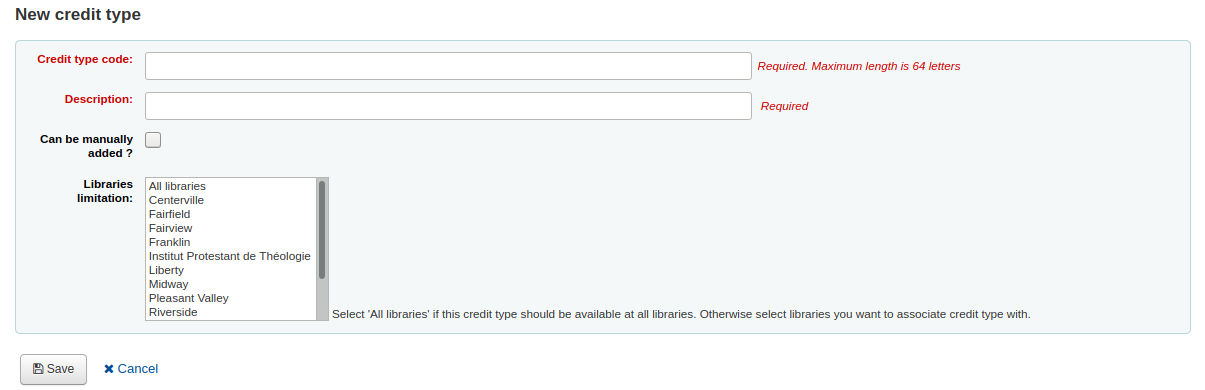
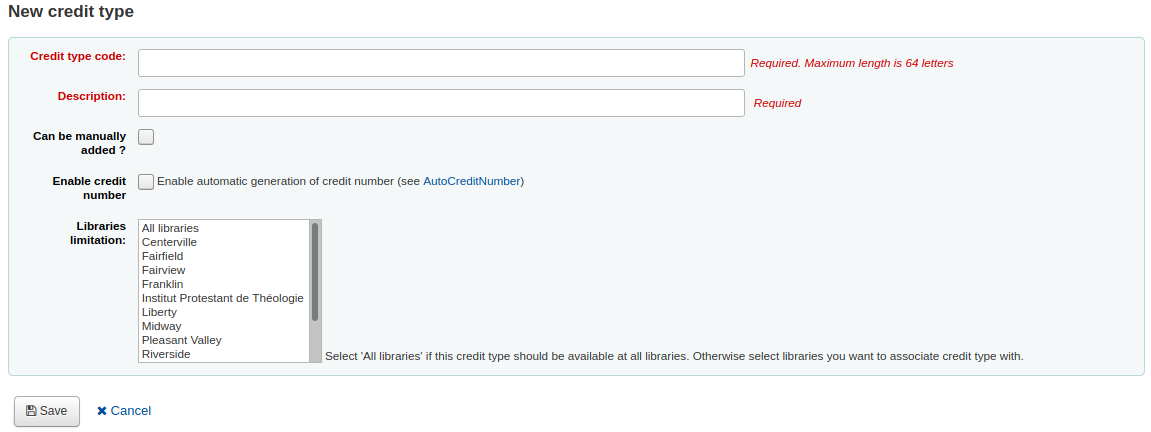
Enable credit numbers in credit types

diff --git a/source/administration.rst b/source/administration.rst
@@ -2124,7 +2124,7 @@ If you need to use an archived debit type again, simply click on the
 
 This will make it available again.
 
-.. _creit-types-label:
+.. _credit-types-label:
 
 Credit types
 ~~~~~~~~~~~~~~~~~~~~~~~~~~~~~~~~~~~~~~~~~~~~~~~~~~~~~~~~~~~~~~~~~~~~~
@@ -2200,6 +2200,10 @@ To add a new credit type:
    -  If this credit type can be added manually by staff to a patron's 
       account via the :ref:`manual credit <creating-manual-credits-label>`, 
       check the 'Can be added manually?' check box
+
+   -  If you need this credit type to be sequentially numbered, check the 
+      'Enable credit number'. The format of the number is defined in the 
+      :ref:`AutoCreditNumber` system preference.
 
    -  If this credit type is only to be used in specific branches, you can 
       select the libraries in 'Libraries limitation'

diff --git a/source/images.rst b/source/images.rst
@@ -1501,6 +1501,7 @@
 .. |image1474| image:: images/acquisitions/suggestarchive.png
 .. |image1475| image:: images/admin/accounting/credittypes.png
 .. |image1476| image:: images/admin/accounting/newcredittype.png
+				:alt: New credit type form
 .. |image1477| image:: images/admin/basicparams/newdesk.png
 .. |image1478| image:: images/admin/basicparams/desks.png
 .. |image1479| image:: images/admin/additional/usagestatistics.png
